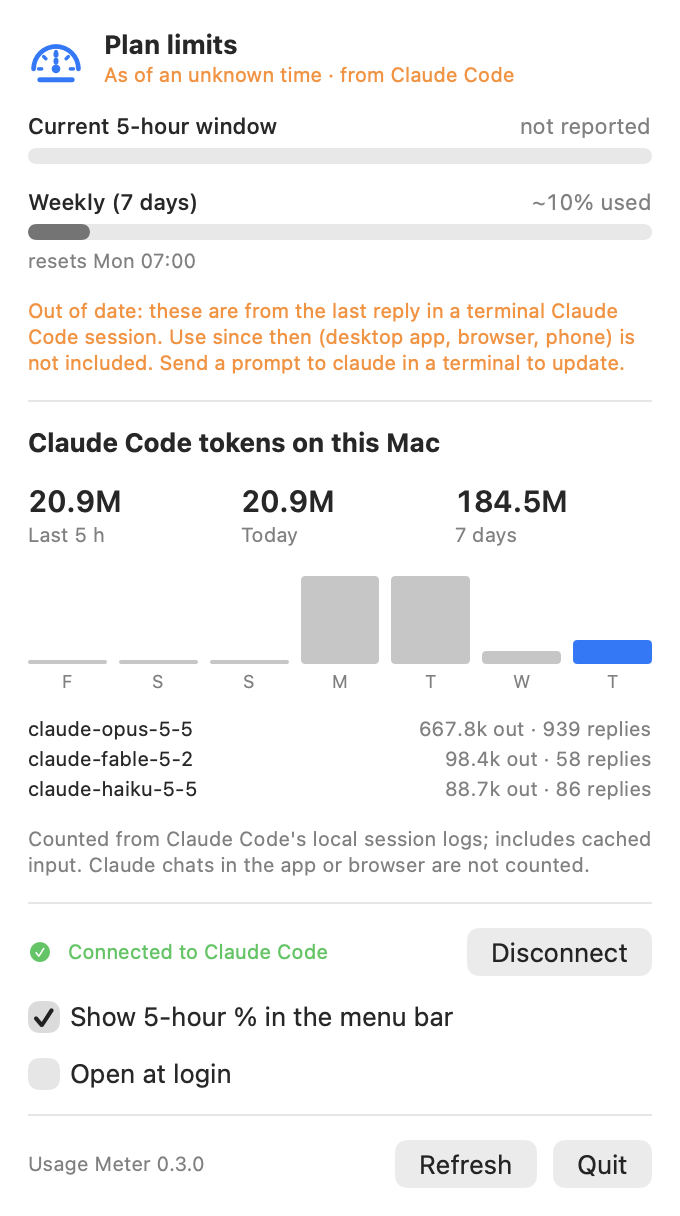
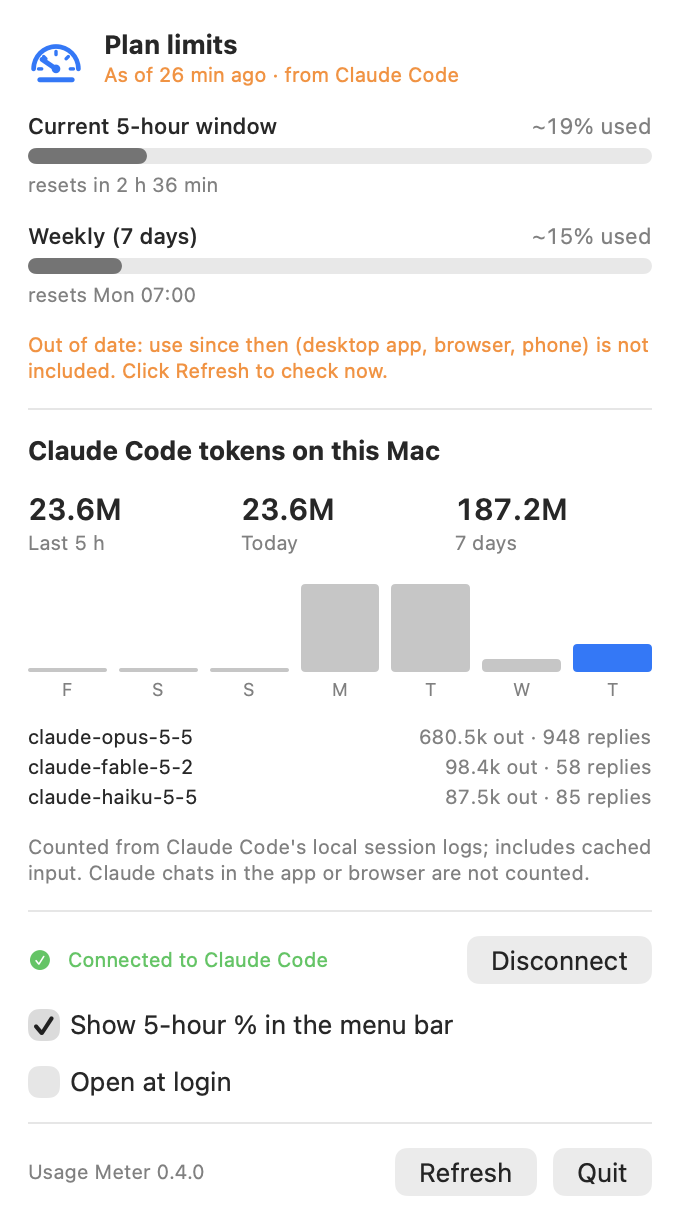
0.4.0: Refresh checks live limits with one tiny Haiku message
Runs claude -p on Haiku with no tools, MCP or settings and reads the
rate_limit_event Claude Code prints in stream-json mode. Shared
newer-wins store with the status line path; --fetch-limits from
Terminal.

diff --git a/App/Limits.swift b/App/Limits.swift
@@ -52,6 +52,104 @@ enum Limits {
         return nil
     }
 
+    /// Saves new numbers unless the stored ones are fresher. A window missing from the new report is kept
+    /// from the old snapshot until it resets. Returns what is stored afterwards.
+    @discardableResult
+    static func store(five: Window?, seven: Window?, asOf: Date) -> LimitSnapshot {
+        let now = Date()
+        let prev = load()
+        func keep(_ w: Window?) -> Window? { w.flatMap { $0.resetDate > now ? $0 : nil } }
+        guard prev == nil || asOf >= prev!.asOf.addingTimeInterval(-1) else { return prev! }
+        let snap = LimitSnapshot(five_hour: five ?? keep(prev?.five_hour), seven_day: seven ?? keep(prev?.seven_day),
+                                 updated_at: now.timeIntervalSince1970, as_of: asOf.timeIntervalSince1970)
+        if snap.five_hour != nil || snap.seven_day != nil {
+            try? FileManager.default.createDirectory(at: Paths.support, withIntermediateDirectories: true)
+            if let d = try? JSONEncoder().encode(snap) { try? d.write(to: Paths.snapshot, options: .atomic) }
+        }
+        return snap
+    }
+
+    // MARK: live check through Claude Code itself
+
+    /// Where the `claude` command lives. GUI apps do not get the shell's PATH, so try the usual places,
+    /// then ask a login shell.
+    static func claudePath() -> String? {
+        let home = Paths.home.path
+        let fm = FileManager.default
+        for p in ["\(home)/.local/bin/claude", "\(home)/.claude/local/claude", "/opt/homebrew/bin/claude",
+                  "/usr/local/bin/claude", "\(home)/.npm-global/bin/claude"] where fm.isExecutableFile(atPath: p) {
+            return p
+        }
+        let r = runProcess("/bin/zsh", ["-lc", "command -v claude"], timeout: 10)
+        let p = r.out.trimmingCharacters(in: .whitespacesAndNewlines)
+        return fm.isExecutableFile(atPath: p) ? p : nil
+    }
+
+    /// Sends one tiny message to the smallest model through Claude Code (your own subscription, no tools,
+    /// no MCP, no settings, nothing saved) and reads the `rate_limit_event` Claude Code prints in
+    /// stream-json mode. Costs about 1,000 tokens of your 5-hour allowance.
+    static func fetchLive() throws -> LimitSnapshot {
+        guard let claude = claudePath() else { throw Problem("Claude Code (the claude command) was not found.") }
+        let dir = FileManager.default.temporaryDirectory.appendingPathComponent("usage-meter-check")
+        try? FileManager.default.createDirectory(at: dir, withIntermediateDirectories: true)
+        let prompt = "Reply with the single word ok."
+        let r = runProcess(claude, ["-p", prompt, "--model", "haiku", "--output-format", "stream-json", "--verbose",
+                                    "--tools", "", "--strict-mcp-config", "--setting-sources", "",
+                                    "--no-session-persistence", "--system-prompt", prompt],
+                           cwd: dir, timeout: 90)
+        var five: Window?, seven: Window?
+        for line in r.out.split(separator: "\n") where line.contains("rate_limit_event") {
+            guard let o = try? JSONSerialization.jsonObject(with: Data(line.utf8)) as? [String: Any],
+                  let info = o["rate_limit_info"] as? [String: Any],
+                  let wins = info["unifiedWindows"] as? [String: Any] else { continue }
+            func w(_ k: String) -> Window? {
+                guard let x = wins[k] as? [String: Any],
+                      let u = (x["utilization"] as? NSNumber)?.doubleValue,
+                      let t = (x["resetsAt"] as? NSNumber)?.doubleValue else { return nil }
+                return Window(used_percentage: u * 100, resets_at: t)
+            }
+            five = w("five_hour") ?? five
+            seven = w("seven_day") ?? seven
+        }
+        guard five != nil || seven != nil else {
+            if r.timedOut { throw Problem("Claude Code did not answer within 90 seconds.") }
+            if r.out.contains("\"is_error\":true") || r.code != 0 {
+                let hint = r.err.split(separator: "\n").last.map(String.init) ?? "exit code \(r.code)"
+                throw Problem("Claude Code failed: \(hint)")
+            }
+            throw Problem("Claude Code answered but reported no plan limits (API-key login, or a changed format).")
+        }
+        return store(five: five, seven: seven, asOf: Date())
+    }
+
+    struct ProcResult { var out = "", err = "", code: Int32 = -1, timedOut = false }
+
+    static func runProcess(_ path: String, _ args: [String], cwd: URL? = nil, timeout: TimeInterval) -> ProcResult {
+        let p = Process()
+        p.executableURL = URL(fileURLWithPath: path)
+        p.arguments = args
+        if let cwd = cwd { p.currentDirectoryURL = cwd }
+        p.standardInput = FileHandle.nullDevice
+        let o = Pipe(), e = Pipe()
+        p.standardOutput = o
+        p.standardError = e
+        var res = ProcResult()
+        do { try p.run() } catch { res.err = error.localizedDescription; return res }
+        let deadline = DispatchTime.now() + timeout
+        let timer = DispatchSource.makeTimerSource()
+        timer.schedule(deadline: deadline)
+        timer.setEventHandler { if p.isRunning { res.timedOut = true; p.terminate() } }
+        timer.resume()
+        let od = o.fileHandleForReading.readDataToEndOfFile()
+        let ed = e.fileHandleForReading.readDataToEndOfFile()
+        p.waitUntilExit()
+        timer.cancel()
+        res.out = String(data: od, encoding: .utf8) ?? ""
+        res.err = String(data: ed, encoding: .utf8) ?? ""
+        res.code = p.terminationStatus
+        return res
+    }
+
     /// `UsageMeter --statusline`: Claude Code pipes its status JSON in. Save the limits, print one short line.
     static func statusLineMain() {
         let input = FileHandle.standardInput.readDataToEndOfFile()
@@ -67,20 +165,8 @@ enum Limits {
             }
             // Status lines also re-render in idle sessions, which still carry the limits from their last reply.
             // Date the numbers by that reply, and never let an older session overwrite fresher numbers.
-            let now = Date()
-            let prev = load()
             let asOf = (obj["transcript_path"] as? String).flatMap(lastReply(in:)) ?? Date(timeIntervalSince1970: 0)
-            func keep(_ w: Window?) -> Window? { w.flatMap { $0.resetDate > now ? $0 : nil } }
-            let newer = prev == nil || asOf >= prev!.asOf.addingTimeInterval(-1)
-            let snap = newer
-                ? LimitSnapshot(five_hour: window("five_hour") ?? keep(prev?.five_hour),
-                                seven_day: window("seven_day") ?? keep(prev?.seven_day),
-                                updated_at: now.timeIntervalSince1970, as_of: asOf.timeIntervalSince1970)
-                : prev!
-            if newer && (snap.five_hour != nil || snap.seven_day != nil) {
-                try? FileManager.default.createDirectory(at: Paths.support, withIntermediateDirectories: true)
-                if let d = try? JSONEncoder().encode(snap) { try? d.write(to: Paths.snapshot, options: .atomic) }
-            }
+            let snap = store(five: window("five_hour"), seven: window("seven_day"), asOf: asOf)
             if let w = snap.five_hour { parts.append("5h \(Int(w.used_percentage.rounded()))%") }
             if let w = snap.seven_day { parts.append("7d \(Int(w.used_percentage.rounded()))%") }
         }

diff --git a/App/UsageMeter.swift b/App/UsageMeter.swift
@@ -11,6 +11,7 @@ final class Model: ObservableObject {
     @Published var hook: Limits.Hook = .none
     @Published var message = ""
     @Published var launchAtLogin = false
+    @Published var checking = false
     @Published var showInBar = UserDefaults.standard.object(forKey: "showInBar") as? Bool ?? true {
         didSet { UserDefaults.standard.set(showInBar, forKey: "showInBar") }
     }
@@ -52,6 +53,22 @@ final class Model: ObservableObject {
     var barText: String {
         guard showInBar, !stale, let p = fiveHour else { return "" }
         return " \(Int(p.rounded()))%"
+    }
+
+    /// Refresh button: re-read everything, then ask Claude Code for live limits (one tiny Haiku message).
+    func checkLive() {
+        guard !checking else { return }
+        checking = true
+        message = ""
+        refresh()
+        Task.detached {
+            let result = Result { try Limits.fetchLive() }
+            await MainActor.run {
+                self.checking = false
+                if case .failure(let e) = result { self.message = e.localizedDescription }
+                self.refresh()
+            }
+        }
     }
 
     func setHook(_ on: Bool) {
@@ -155,12 +172,13 @@ struct Panel: View {
                 Meter(title: "Current 5-hour window", used: m.fiveHour, window: m.limits?.five_hour, stale: m.stale)
                 Meter(title: "Weekly (7 days)", used: m.sevenDay, window: m.limits?.seven_day, stale: m.stale)
                 Text(m.stale
-                     ? "Out of date: these are from the last reply in a terminal Claude Code session. Use since then (desktop app, browser, phone) is not included. Send a prompt to claude in a terminal to update."
-                     : "From your latest Claude Code reply in a terminal. Only terminal sessions report limits; the desktop app and browser do not.")
+                     ? "Out of date: use since then (desktop app, browser, phone) is not included. Click Refresh to check now."
+                     : "Live as of the time above. Refresh sends one tiny message to Haiku through Claude Code to check.")
                     .font(.caption).foregroundStyle(m.stale ? Color.orange : Color.secondary)
                     .fixedSize(horizontal: false, vertical: true)
             } else {
-                Text(hookHint).font(.caption).foregroundStyle(.secondary).fixedSize(horizontal: false, vertical: true)
+                Text("Click Refresh to check your 5-hour and weekly limits now (sends one tiny message to Haiku through Claude Code).")
+                    .font(.caption).foregroundStyle(.secondary).fixedSize(horizontal: false, vertical: true)
             }
 
             Divider()
@@ -214,7 +232,10 @@ struct Panel: View {
             HStack {
                 Text("Usage Meter \(appVersion)").font(.caption).foregroundStyle(.secondary)
                 Spacer()
-                Button("Refresh") { m.refresh() }
+                if m.checking { ProgressView().controlSize(.small) }
+                Button(m.checking ? "Checking…" : "Refresh") { m.checkLive() }
+                    .disabled(m.checking)
+                    .help("Re-reads the logs and asks Claude Code for your live limits (about 1,000 Haiku tokens).")
                 Button("Quit") { NSApplication.shared.terminate(nil) }
             }
         }
@@ -324,6 +345,13 @@ enum Main {
         let args = CommandLine.arguments
         if args.contains("--statusline") { Limits.statusLineMain(); return }
         if args.contains("--version") { print(appVersion); return }
+        if args.contains("--fetch-limits") {
+            do {
+                let s = try Limits.fetchLive()
+                print("5h \(s.five_hour.map { "\($0.used_percentage)%" } ?? "-") · 7d \(s.seven_day.map { "\($0.used_percentage)%" } ?? "-")")
+            } catch { print(error.localizedDescription); exit(1) }
+            return
+        }
         if let i = args.firstIndex(of: "--set-hook"), i + 1 < args.count {
             do { try Limits.setHook(args[i + 1] == "on"); print("ok") } catch { print(error.localizedDescription); exit(1) }
             return

diff --git a/README.md b/README.md
@@ -10,7 +10,7 @@ It uses only what Claude Code itself provides on your Mac: no claude.ai cookies,
 
 | Section | Source | Notes |
 |---|---|---|
-| **Plan limits**: 5-hour and weekly % used, reset times | Claude Code's documented status line field `rate_limits` ([docs](https://code.claude.com/docs/en/statusline)) | Pro, Max and Ultra plans. Updated after each reply in a **terminal** Claude Code session; the Claude desktop app and browser do not report it. Numbers are dated by that reply and greyed out after 20 minutes. |
+| **Plan limits**: 5-hour and weekly % used, reset times | 1. **Refresh**: one tiny message to Haiku through your own Claude Code (`claude -p … --output-format stream-json`), which prints a `rate_limit_event`. 2. Claude Code's documented status line field `rate_limits` ([docs](https://code.claude.com/docs/en/statusline)) after each reply in a terminal session | Pro, Max and Ultra plans. Numbers are dated by when they were reported and greyed out after 20 minutes. A Refresh costs about 1,000 Haiku tokens of your 5-hour allowance. |
 | **Claude Code tokens**: last 5 h, today, 7 days, per model, 7-day chart | Claude Code's session logs in `~/.claude/projects` | Includes cached input, so totals are large. Anthropic calls the log format internal, so this part can break after a Claude Code update. |
 
 The gauge needle in the menu bar follows the 5-hour figure, with the % beside it while it is fresh.
@@ -33,15 +33,18 @@ This builds a universal app, copies it to `/Applications` and opens it. Then, in
 
 ## How it works
 
+- **Refresh** runs `claude -p "Reply with the single word ok." --model haiku --output-format stream-json --verbose --tools "" --strict-mcp-config --setting-sources "" --no-session-persistence` (no tools, no MCP servers, no settings, nothing saved) and reads `rate_limit_event.rate_limit_info.unifiedWindows` (`utilization` 0–1, `resetsAt`). This event is part of Claude Code's output but not documented, so it may change.
+
 - `UsageMeter --statusline` is the status line command Claude Code runs. It reads Claude Code's JSON from stdin, saves the limits to `~/Library/Application Support/Usage Meter/limits.json` and prints a short line (`Opus · 5h 42% · 7d 71%`). The time of the session's last reply, from its transcript, dates the numbers, so an idle session cannot overwrite fresher ones.
 - The app reads that file and the session logs every 30 seconds (only changed log files are re-read).
 
-Other options: `--background` (start without opening the panel), `--screenshot out.png [dark]`, `--set-hook on|off`, `--version`; `UM_HOME=<dir>` redirects the settings and snapshot paths for testing.
+Other options: `--fetch-limits` (the Refresh check from Terminal), `--background` (start without opening the panel), `--screenshot out.png [dark]`, `--set-hook on|off`, `--version`; `UM_HOME=<dir>` redirects the settings and snapshot paths for testing.
 
 ## Limits of this approach
 
-- The plan figures are only as fresh as your last terminal Claude Code reply. Usage in the desktop app, browser or phone after that is missing until the next one.
-- There is no documented way to read the live figures shown in Claude's settings without your login session, which this app deliberately does not use.
+- Without a Refresh, the plan figures are only as fresh as your last terminal Claude Code reply.
+- Each Refresh uses a little of your plan (about 1,000 Haiku tokens). The app never refreshes by itself.
+- Needs Claude Code installed and signed in with a Claude plan; with an API key there are no plan limits to show.
 
 ## Uninstall
 
